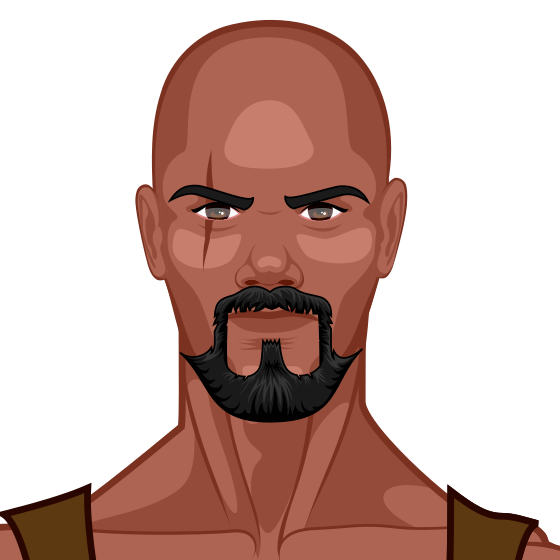
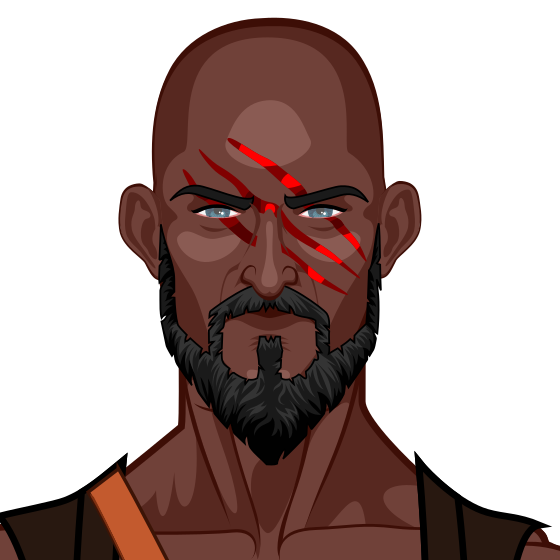
Progress

diff --git a/templates/Game_Section_1.html b/templates/Game_Section_1.html
@@ -25,8 +25,8 @@
 
     <div class="Text_Box" id="textContainer">
 
-        <p class="Question" id="question">  </p>
-           
+        <p class="Question" id="question"> </p>
+        
     </div>
 
     <div class="Choice_container" id="Choice_Container">
@@ -45,10 +45,8 @@
     </div>
 
 
-
     <script>
-
-        fetch('/get_random_question')
+    fetch('/get_random_game_data')
     .then(response => {
         if (!response.ok) {
             throw new Error(`HTTP error! Status: ${response.status}`);
@@ -56,6 +54,12 @@
         return response.json();
     })
     .then(data => {
+        // Set the character image
+        document.querySelector('.Character_Image').src = data.character.image;
+
+        // Set the character name
+        document.querySelector('.Character_Name').innerText = data.character.name;
+
         // Set the question
         document.getElementById('question').innerText = data.question;
 
@@ -64,15 +68,10 @@
         document.getElementById('choice1').innerText = data.choices[1];
     })
     .catch(error => {
-        console.error('Error fetching question:', error.message);
+        console.error('Error fetching game data:', error.message);
     });
-
-// Show the game container
-document.getElementById('textContainer').style.display = 'inline-block';
-document.getElementById('Choice_Container').style.display = 'inline-block';
-
-    </script>
     
+</script>
 
 </body>
 </html>

diff --git a/static/CSSSection_1/Section_1.css b/static/CSSSection_1/Section_1.css
@@ -61,7 +61,7 @@ button:hover {
 
 .Quit_Text {
     padding: 10px;
-    margin-top: 20px;
+    margin-top: 10px;
    margin-left: 80px;
 }
 
@@ -107,35 +107,43 @@ h1 {
 
 .Text_Box {
     width: 500px;
-    display: inline-block;
+    display: inline-flex;
     background-color: white;
-    padding: 10px;
+    padding: 10px; /* Adjust padding as needed */
     border-radius: 5px;
     position: relative;
     top: -231px;
-    
+    height: 70px;
 }
 
 .Question {
     text-align: left;
+    color: rgb(9, 5, 5);
+    height: 30px;
+    
 }
 
 .Choice_container {
-    display: inline-block;
+    display: inline-flex;
     padding: 10px;
     margin-left: 100px;
     text-align: center;
+    
 }
 
 .Choice_1, .Choice_2 {
-    display: inline-block;
-    margin: 10px 60px; /* Optional: Add margin for spacing between buttons */
+    display: inline-flex;
+    margin: 0px 50px; /* Optional: Add margin for spacing between buttons */
     padding: 10px 20px;
-    font-size: 20px;
+    font-size: 15px;
     color: #fff;
     border-radius: 4px;
     cursor: pointer;
     transition: background-color 0.3s;
+    width: 300px;
+    height: 100px;
+    font-family: Arial, sans-serif;
+    
 }
 
 .Quit_Form {

diff --git a/main.py b/main.py
@@ -2,17 +2,37 @@ from flask import Flask, render_template, jsonify
 import random
 
 
-questions = [
-    {
-        "question": "What is the capital of France?",
-        "choices": ["Paris", "Berlin"]
+characters_data = {
+    'Chijioke': {
+        'image': 'static/Used_Images/Chijioke_Character.png',
+        'name': 'Chijioke (Warrior)',
+        'questions': ['Azu! Reports have come in that a rival village is planning a surprise attack. How should we prepare our defense?', 
+                      'The neighboring village challenges the prowess of our warriors in a martial arts competition. How do we respond to uphold our village''s honor?', 
+                      'The village is facing internal strife, and some warriors are questioning your leadership. How will you address the dissent among the ranks?',
+                      'A sacred relic, crucial to our warriors'' spiritual strength, has been stolen. How do we retrieve it and restore the morale of our warriors?',
+                      'The training of young warriors is falling behind schedule, affecting our overall readiness for potential conflicts. How should we intensify the training regimen?',
+                      'Elder Azu, a women in our tribe has dared to now acknowledge me and show me respect as the great warrior of our tribe! We should get rid of her and give her belongings to the rest of the village!',
+                      ],
+        
+        'choices': [['Send emissaries to the rival village, expressing a desire for peaceful resolution.', 'Mobilize our warriors for a preemptive strike to discourage the attack.'],
+                    
+                    ['Politely decline and focus on maintaining peaceful relations between the villages.', 'Select our best warriors for a fierce competition to assert our dominance.'],
+                    
+                    ['Call a council of respected elders and warriors to address grievances and seek a diplomatic resolution.', 'Confront the dissenting warriors directly and assert your authority through a traditional display of strength.'],
+                    
+                    ['Convene a gathering of village leaders to discuss negotiations for the safe return of the sacred item.', 'Launch a covert mission to infiltrate the rival village and recover the stolen relic.'],
+                    
+                    ['Seek guidance from seasoned warriors and introduce innovative training methods to keep the young warriors engaged.', 'Implement a strict and rigorous training routine to instill discipline and resilience.'],
+                    
+                    ['Tell Chijioke put aside your pride and leave the women be.', 'Give Chijioke the go ahead to follow-through in his plans.']
+                    ]
     },
-    {
-        "question": "Which planet is known as the Red Planet?",
-        "choices": ["Mars", "Venus"]
-    },
-    # Add more questions as needed
-]
+    
+   
+    # Add more characters as needed...
+}
+    # Add more characters as needed...
+
 
 app = Flask(__name__)
 
@@ -32,12 +52,27 @@ def Prologue_2():
 @app.route('/Game_Section_1')
 def Game_Section_1():
     return render_template('Game_Section_1.html')
+    
+@app.route('/get_random_game_data')
+def get_random_game_data():
+    # Randomly select a character
+    character_name = random.choice(list(characters_data.keys()))
+    character_info = characters_data[character_name]
 
-@app.route('/get_random_question', methods=['GET'])
-def get_random_question():
-    # Select a random question from the list
-    random_question = random.choice(questions)
-    return jsonify(random_question)
+    # Randomly select a question and choices for the character
+    question_index = random.randint(0, len(character_info['questions']) - 1)
+    question = character_info['questions'][question_index]
+    choices = character_info['choices'][question_index]
+
+    # Prepare the response data
+    response_data = {
+        'character': {'name': character_info['name'], 'image': character_info['image']},
+        'question': question,
+        'choices': choices
+    }
+
+    return jsonify(response_data)
+
 
 
 if __name__ == '__main__':
